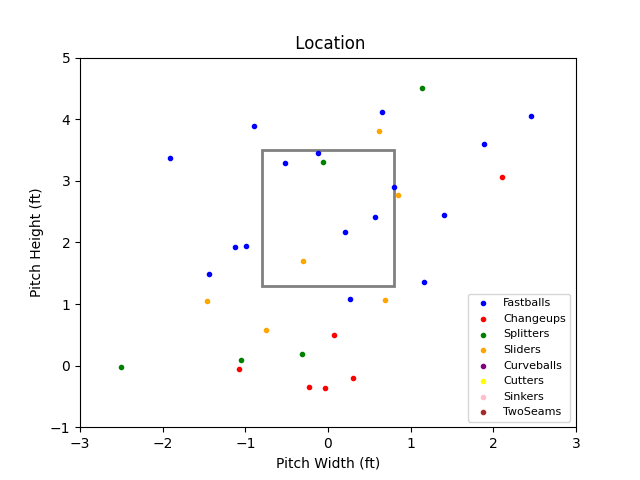
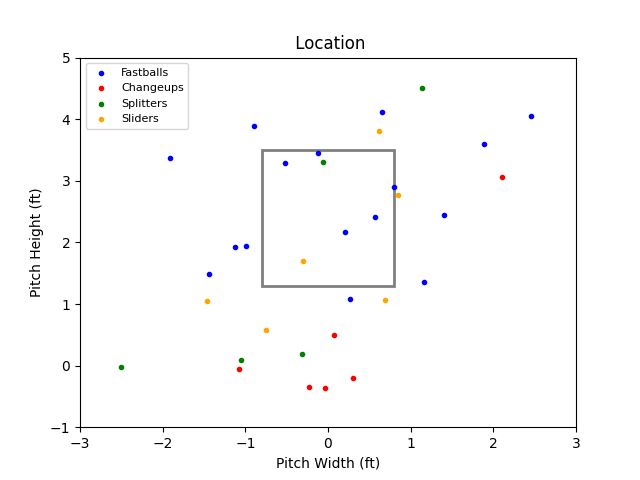
Only featured pitches shown

Changed region(s): [[0.75, 0.625, 0.9062, 0.875], [0.125, 0.125, 0.2812, 0.2812]]

diff --git a/filereader.py b/filereader.py
@@ -96,14 +96,22 @@ def pltPitches(Player):
 
   rect=mpatches.Rectangle((-.8,1.3),1.6,2.2, fill = False, color = "gray", linewidth = 2)    
   plt.gca().add_patch(rect)
-  plt.scatter(xFast, yFast, label= "Fastballs", c= "blue", marker= ".")
-  plt.scatter(xChup, yChup, label= "Changeups", c= "red", marker= ".")
-  plt.scatter(xSplit, ySplit, label= "Splitters", c= "green", marker= ".")
-  plt.scatter(xSlid, ySlid, label= "Sliders", c= "orange", marker= ".")
-  plt.scatter(xCurv, yCurv, label= "Curveballs", c= "purple", marker= ".")
-  plt.scatter(xCutt, yCutt, label= "Cutters", c= "yellow", marker= ".")
-  plt.scatter(xSink, ySink, label= "Sinkers", c= "pink", marker= ".")
-  plt.scatter(xTsea, yTsea, label= "TwoSeams", c= "brown", marker= ".")
+  if len(xFast) != 0:
+    plt.scatter(xFast, yFast, label= "Fastballs", c= "blue", marker= ".")
+  if len(xChup) != 0:
+    plt.scatter(xChup, yChup, label= "Changeups", c= "red", marker= ".")
+  if len(xSplit) != 0:
+    plt.scatter(xSplit, ySplit, label= "Splitters", c= "green", marker= ".")
+  if len(xSlid) != 0:
+    plt.scatter(xSlid, ySlid, label= "Sliders", c= "orange", marker= ".")
+  if len(xCurv) != 0:
+    plt.scatter(xCurv, yCurv, label= "Curveballs", c= "purple", marker= ".")
+  if len(xCutt) != 0:
+    plt.scatter(xCutt, yCutt, label= "Cutters", c= "yellow", marker= ".")
+  if len(xSink) != 0:
+    plt.scatter(xSink, ySink, label= "Sinkers", c= "pink", marker= ".")
+  if len(xTsea) != 0:
+    plt.scatter(xTsea, yTsea, label= "TwoSeams", c= "brown", marker= ".")
   #fig, ax = plt.subplots()   
   plt.xlabel('Pitch Width (ft)')
 
